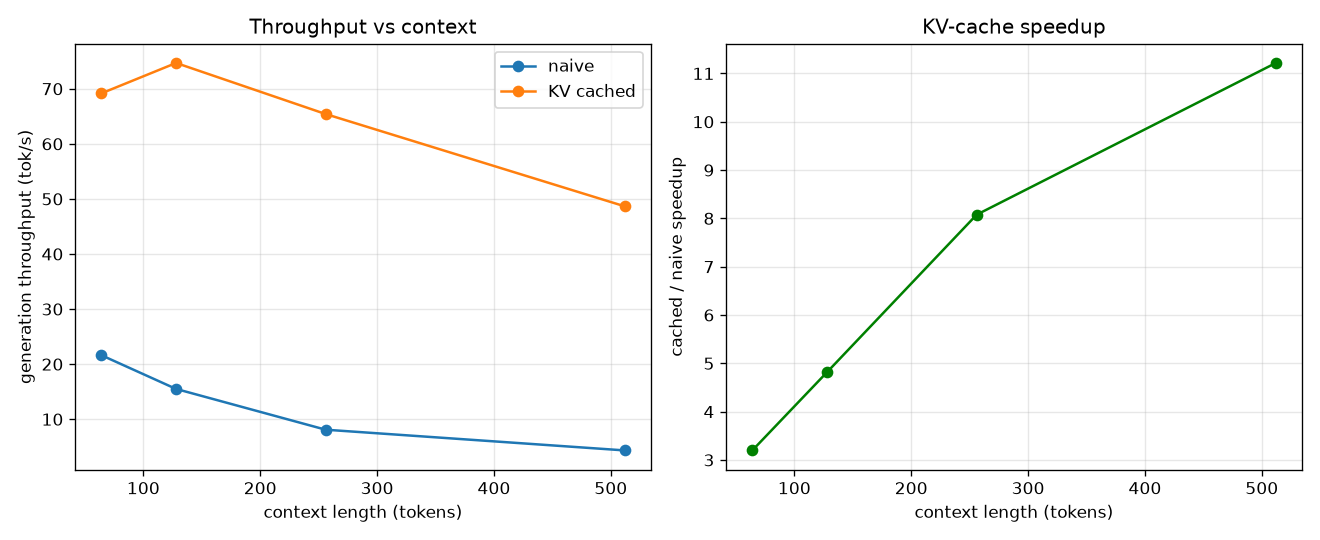
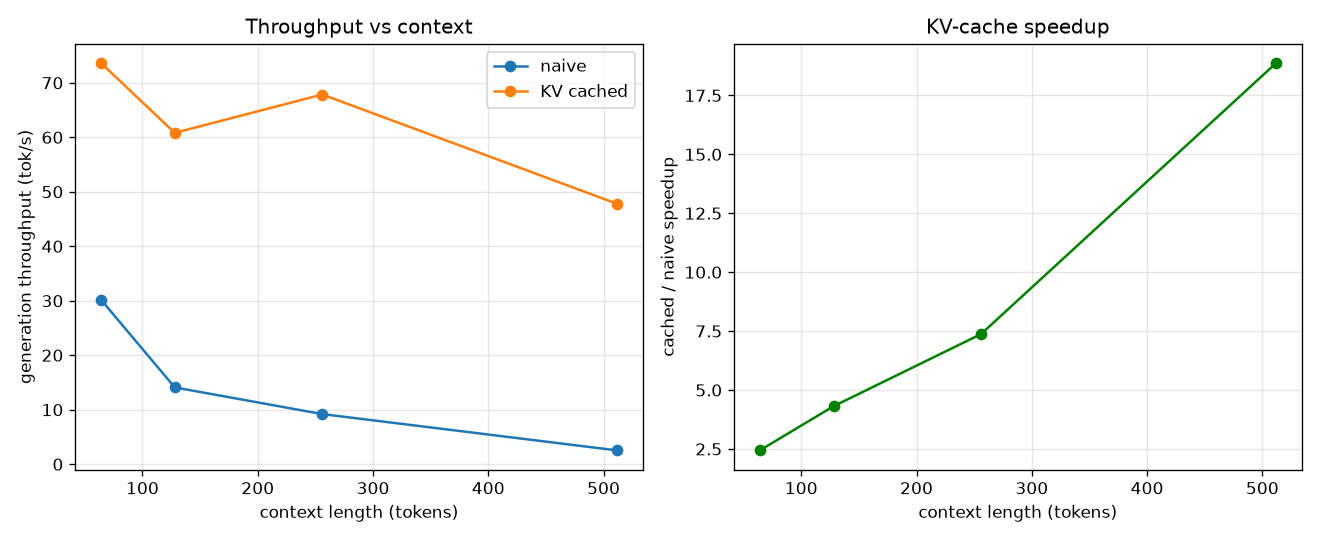
fix(serve): cap both generation paths at block_size so naive/cached stay identical; harden batch guard; stabilize benchmark with median-of-N

diff --git a/serve/engine.py b/serve/engine.py
@@ -1,8 +1,17 @@
 """Autoregressive generation: a naive O(T^2) path and a KV-cached O(T) path.
 
-The two must produce identical tokens given identical logits — that equivalence
-is what tests/test_kv_cache.py pins down. The cache is a pure speed
-optimization; it must never change what the model would have said.
+Given identical logits the two produce identical tokens — that equivalence is
+what tests/test_kv_cache.py pins down. The cache is a pure speed optimization;
+it never changes what the model would have said.
+
+Context ceiling: this model uses *learned absolute* position embeddings, so it
+only knows positions 0..block_size-1. Generation is therefore capped at
+block_size total tokens. (A sliding window past that would re-index positions,
+which a KV cache — with positions baked into stored K/V — cannot replicate; it
+is exactly why production models use relative positions like RoPE/ALiBi. Both
+paths here cap identically so they stay interchangeable on every valid input.)
+
+Batch: single-sequence only (B=1). A flat list of ids in, a flat list out.
 
 Built with Claude Code.
 """
@@ -25,14 +34,24 @@ def sample_next(logits, temperature=0.8, top_k=50):
     return torch.multinomial(probs, num_samples=1)
 
 
+def _budget(model, ids, max_new_tokens):
+    """Tokens we can actually generate before hitting the position ceiling."""
+    if not isinstance(ids, (list, tuple)) or any(not isinstance(i, int) for i in ids):
+        raise ValueError("ids must be a flat list of token ids (batch B=1 only)")
+    block = model.config.block_size
+    if len(ids) >= block:
+        raise ValueError(f"prompt length {len(ids)} >= block_size {block}; no room to generate")
+    return min(max_new_tokens, block - len(ids))
+
+
 @torch.no_grad()
 def generate_naive(model, ids, max_new_tokens, temperature=0.8, top_k=50):
     """Recompute attention over the whole prefix every step (no cache)."""
     model.eval()
+    n = _budget(model, ids, max_new_tokens)
     idx = torch.tensor([ids], dtype=torch.long)
-    for _ in range(max_new_tokens):
-        window = idx[:, -model.config.block_size:]
-        logits, _ = model(window)
+    for _ in range(n):
+        logits, _ = model(idx)
         nxt = sample_next(logits[:, -1, :], temperature, top_k)
         idx = torch.cat((idx, nxt), dim=1)
     return idx[0].tolist()
@@ -42,10 +61,11 @@ def generate_naive(model, ids, max_new_tokens, temperature=0.8, top_k=50):
 def generate_cached(model, ids, max_new_tokens, temperature=0.8, top_k=50):
     """Prefill the prompt once, then feed one token at a time against the cache."""
     model.eval()
+    n = _budget(model, ids, max_new_tokens)
     cache = KVCache()
     out = list(ids)
     cur = torch.tensor([ids], dtype=torch.long)  # prefill: whole prompt at once
-    for _ in range(max_new_tokens):
+    for _ in range(n):
         logits, _, presents = model(cur, past_kvs=cache.layers, use_cache=True)
         cache.update(presents)
         nxt = sample_next(logits[:, -1, :], temperature, top_k)

diff --git a/tests/test_kv_cache.py b/tests/test_kv_cache.py
@@ -71,3 +71,36 @@ def test_cache_grows_by_one_per_step(model):
         _, _, presents = model(torch.tensor([[4]]), past_kvs=cache.layers, use_cache=True)
         cache.update(presents)
         assert cache.length == 4  # one decode step
+
+
+def test_multi_token_continuation_matches_full_forward(model):
+    """Feeding a CHUNK of >1 new tokens against a non-empty cache must match the
+    full forward — this exercises the mask slice for T>1 with past_len>0, which
+    single-token decoding never hits."""
+    torch.manual_seed(3)
+    T, split = 24, 10
+    seq = torch.randint(0, SMALL.vocab_size, (1, T))
+    with torch.no_grad():
+        full_logits, _ = model(seq)
+        _, _, presents = model(seq[:, :split], use_cache=True)          # prefill 10
+        cache = KVCache().update(presents)
+        logits, _, _ = model(seq[:, split:], past_kvs=cache.layers, use_cache=True)  # 14 at once
+        assert torch.allclose(logits[0], full_logits[0, split:], atol=1e-5)
+
+
+def test_generation_caps_at_block_size_identically(model):
+    """Both paths must stop at the position ceiling — same length, same tokens —
+    rather than one crashing and one sliding."""
+    prompt = [1, 2, 3, 4]
+    huge = SMALL.block_size * 3
+    naive = generate_naive(model, prompt, huge, temperature=0)
+    cached = generate_cached(model, prompt, huge, temperature=0)
+    assert len(naive) == SMALL.block_size
+    assert naive == cached
+
+
+def test_batch_input_rejected(model):
+    with pytest.raises(ValueError):
+        generate_naive(model, [[1, 2], [3, 4]], 5)
+    with pytest.raises(ValueError):
+        generate_cached(model, [[1, 2], [3, 4]], 5)

diff --git a/evals/bench.py b/evals/bench.py
@@ -11,6 +11,7 @@ Usage (from the repo root):
 """
 
 import argparse
+import statistics
 import time
 
 import torch
@@ -20,21 +21,25 @@ from model.transformer import GPT
 from serve.engine import generate_cached, generate_naive
 
 
-def _time(fn):
-    t0 = time.perf_counter()
-    fn()
-    return time.perf_counter() - t0
+def _time(fn, repeats):
+    """Median wall time over `repeats` runs — single-shot CPU timings are noisy."""
+    ts = []
+    for _ in range(repeats):
+        t0 = time.perf_counter()
+        fn()
+        ts.append(time.perf_counter() - t0)
+    return statistics.median(ts)
 
 
-def bench_one(model, ctx_len, gen, vocab):
+def bench_one(model, ctx_len, gen, vocab, repeats):
     prompt = torch.randint(0, vocab, (ctx_len,)).tolist()
 
     # time-to-first-token: cost of the first produced token (prompt processing)
-    naive_ttft = _time(lambda: generate_naive(model, prompt, 1, temperature=0))
-    cached_ttft = _time(lambda: generate_cached(model, prompt, 1, temperature=0))
+    naive_ttft = _time(lambda: generate_naive(model, prompt, 1, temperature=0), repeats)
+    cached_ttft = _time(lambda: generate_cached(model, prompt, 1, temperature=0), repeats)
 
-    naive_total = _time(lambda: generate_naive(model, prompt, gen, temperature=0))
-    cached_total = _time(lambda: generate_cached(model, prompt, gen, temperature=0))
+    naive_total = _time(lambda: generate_naive(model, prompt, gen, temperature=0), repeats)
+    cached_total = _time(lambda: generate_cached(model, prompt, gen, temperature=0), repeats)
 
     return {
         "ctx": ctx_len,
@@ -50,6 +55,7 @@ def main():
     ap = argparse.ArgumentParser()
     ap.add_argument("--gen", type=int, default=64, help="tokens to generate per run")
     ap.add_argument("--contexts", type=int, nargs="+", default=[64, 128, 256, 512])
+    ap.add_argument("--repeats", type=int, default=3, help="timed runs per point (median)")
     ap.add_argument("--out", default="evals/kv_bench.png")
     args = ap.parse_args()
 
@@ -64,9 +70,11 @@ def main():
 
     generate_cached(model, [1, 2, 3], 2, temperature=0)  # warm up lazy init
 
+    print(f"benchmark model: block_size={cfg.block_size} (shipped model is 256); "
+          f"gen={args.gen} tokens, median of {args.repeats} runs")
     rows = []
     for ctx in args.contexts:
-        r = bench_one(model, ctx, args.gen, vocab)
+        r = bench_one(model, ctx, args.gen, vocab, args.repeats)
         rows.append(r)
         print(f"ctx {r['ctx']:4d} | naive {r['naive_tps']:6.1f} tok/s | "
               f"cached {r['cached_tps']:7.1f} tok/s | {r['speedup']:5.1f}x | "